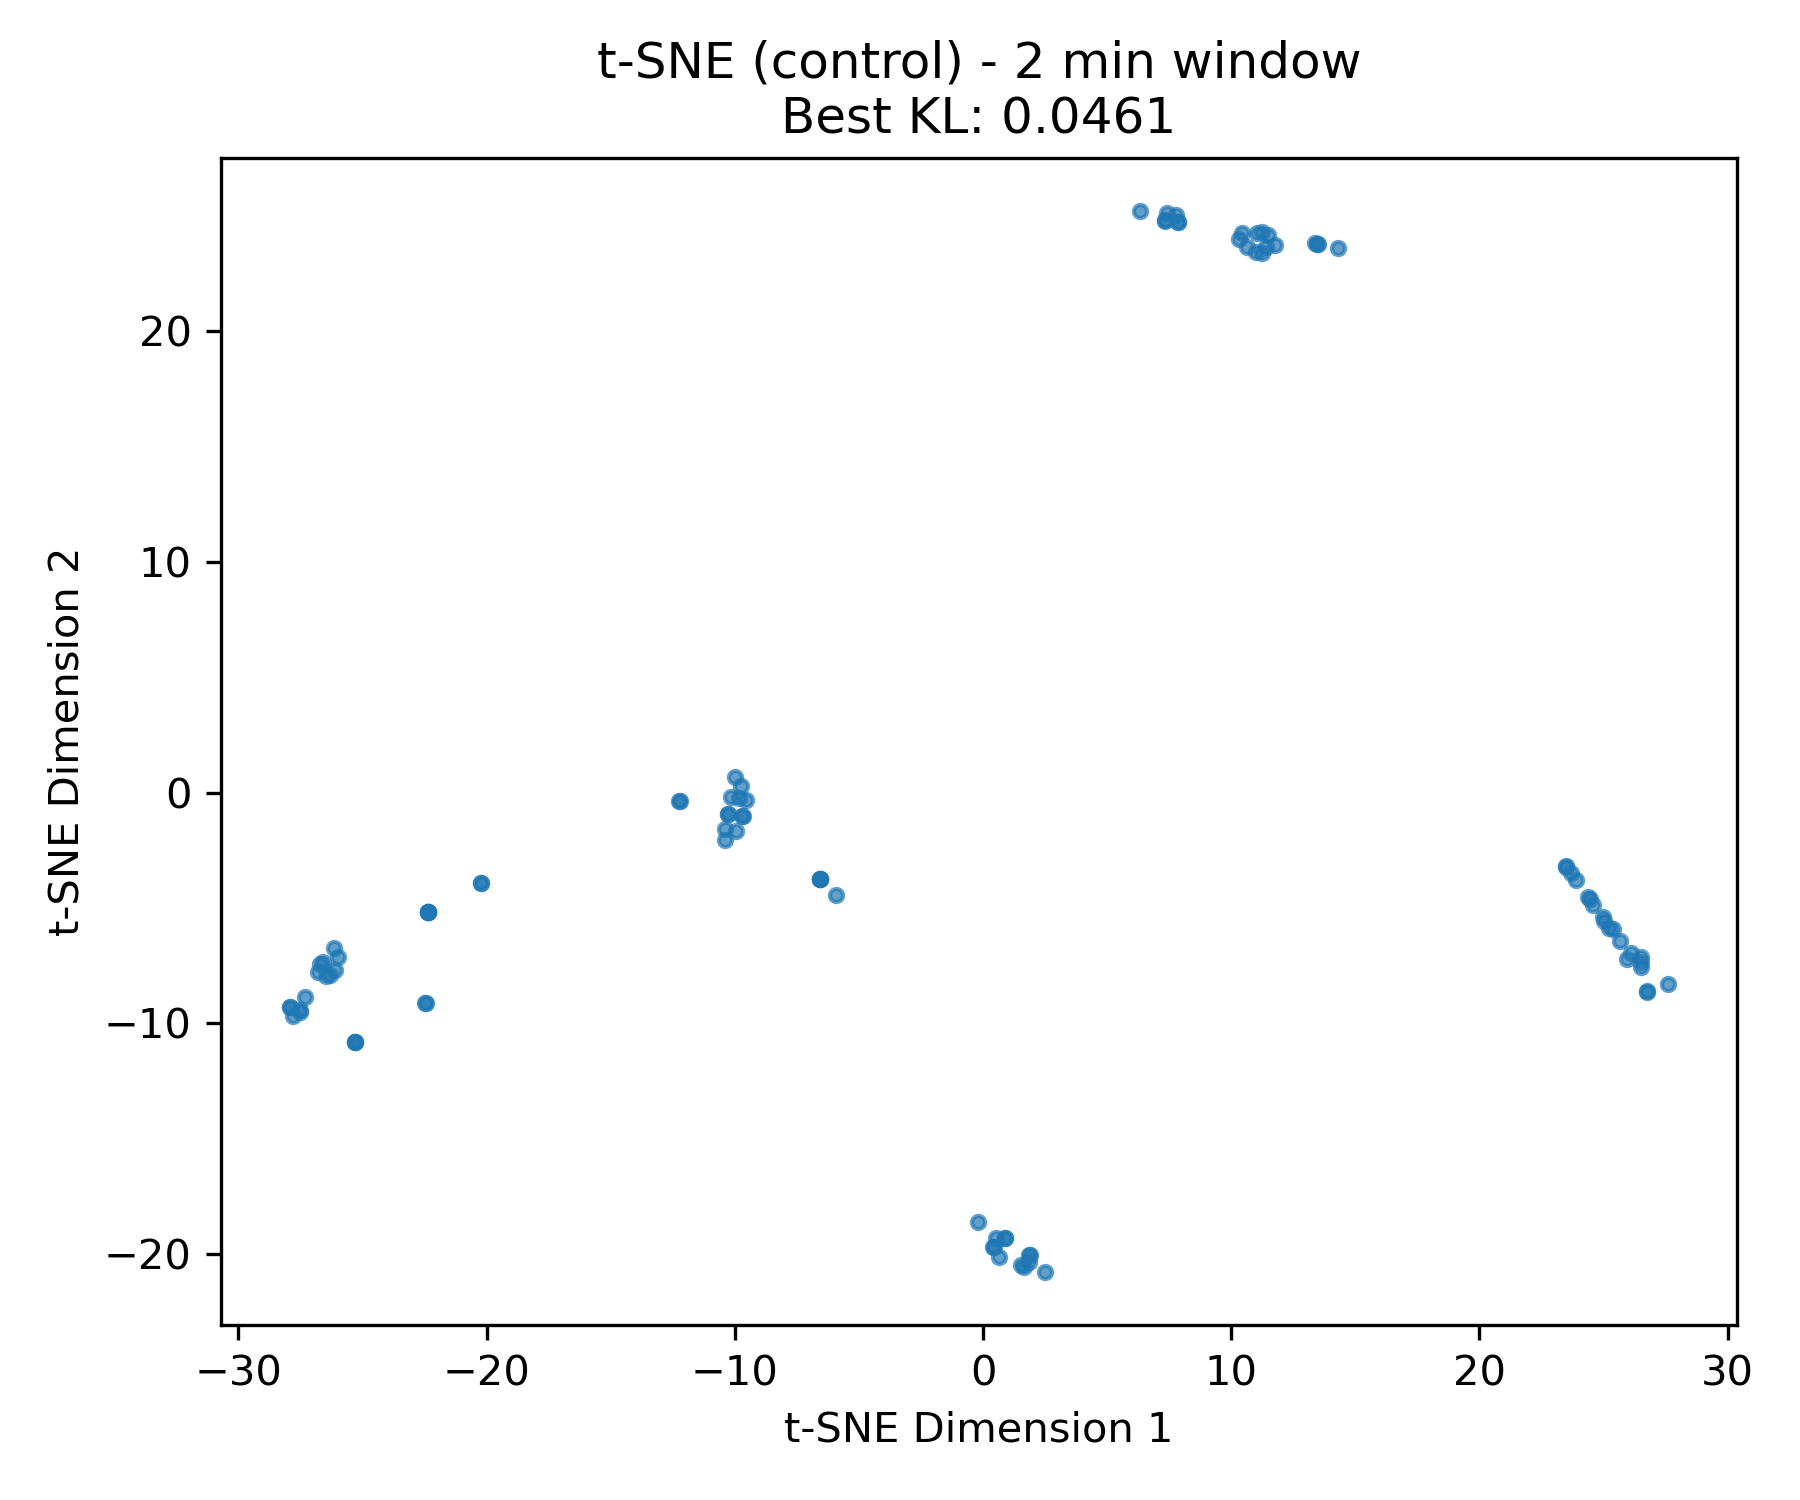
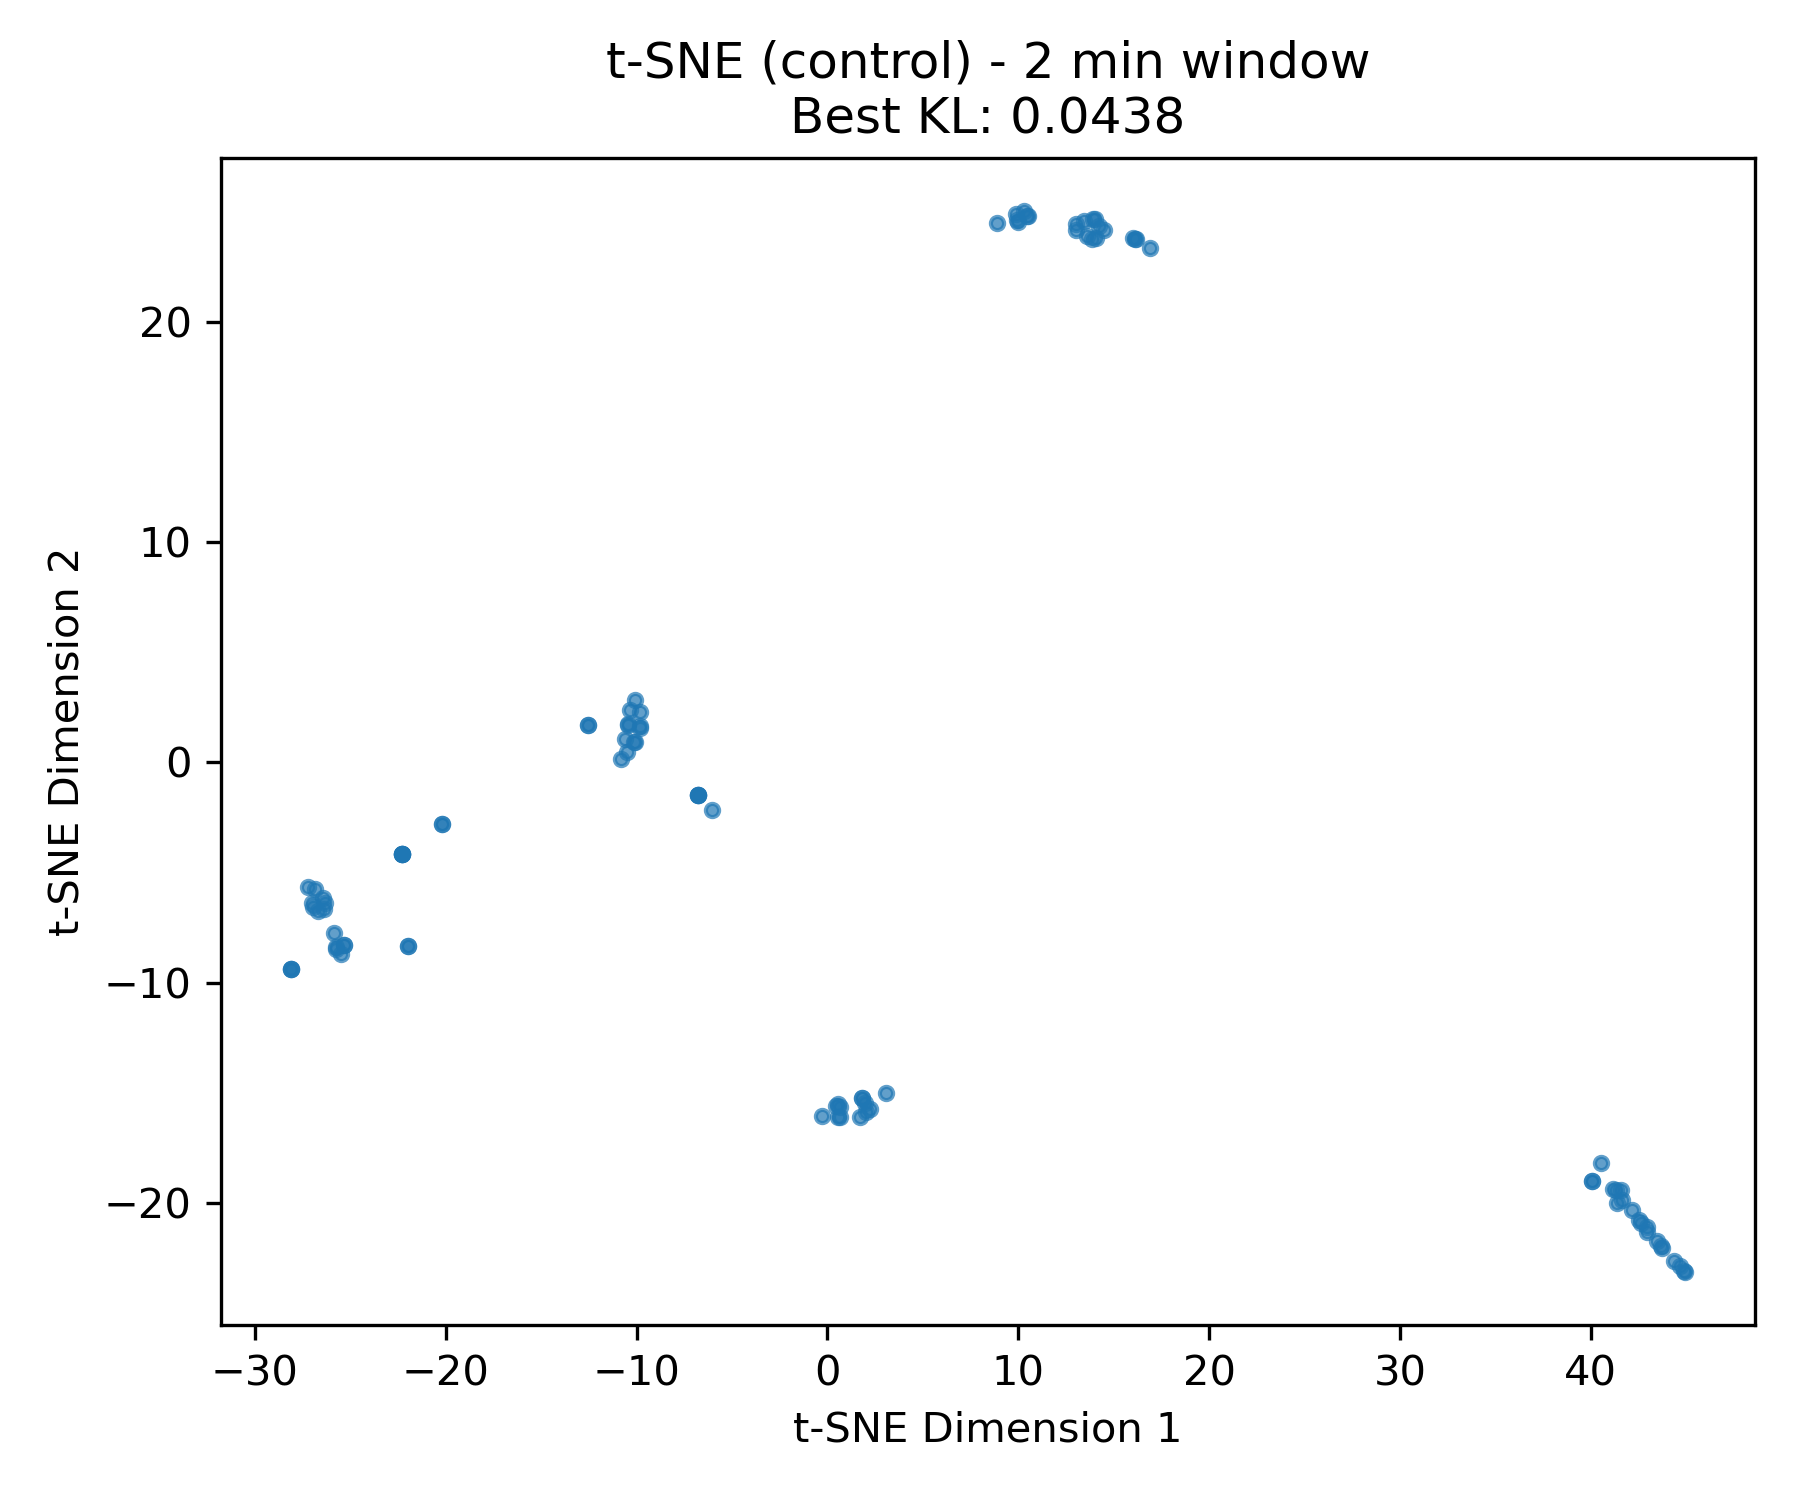
preparing for the whole test

diff --git a/Abdelaziz_Codes/Sheet1_codes/utilities.py b/Abdelaziz_Codes/Sheet1_codes/utilities.py
@@ -4,8 +4,7 @@
     @Desc: This is a utility file that contains helper functions to be used in the main tasks. 
 
 '''
-TESTING = True
-
+TESTING = False 
 from sklearn.manifold import TSNE
 from sklearn.preprocessing import StandardScaler
 from scapy.all import rdpcap

diff --git a/Abdelaziz_Codes/Sheet1_codes/task2_script.py b/Abdelaziz_Codes/Sheet1_codes/task2_script.py
@@ -5,7 +5,7 @@
 '''
 
 from utilities import *
-TESTING = True
+TESTING = False
 
 
 # Task2 Creating traffic flow for attacker and normal traffic from QUT_S7Comm dataset pcaps
